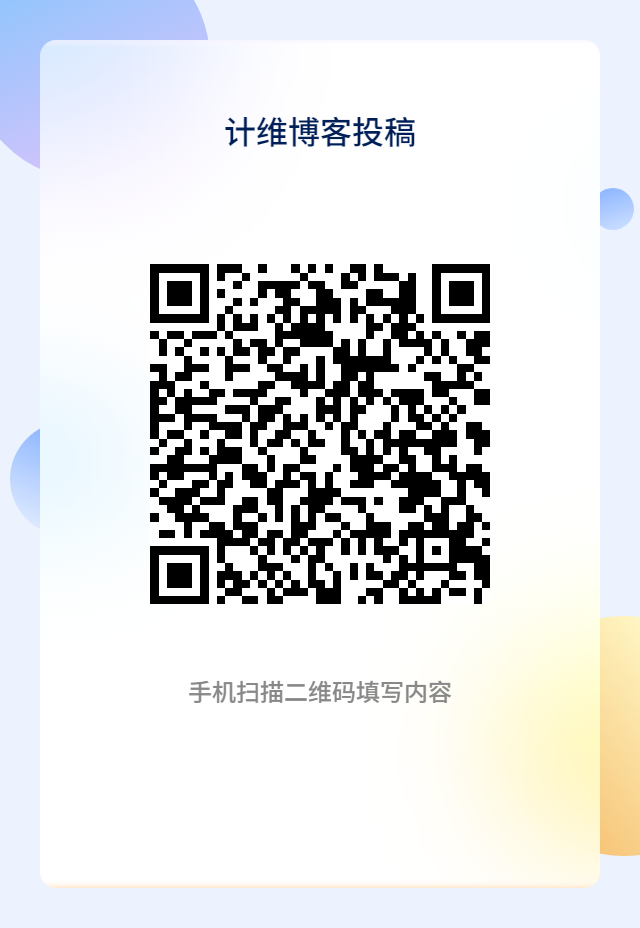
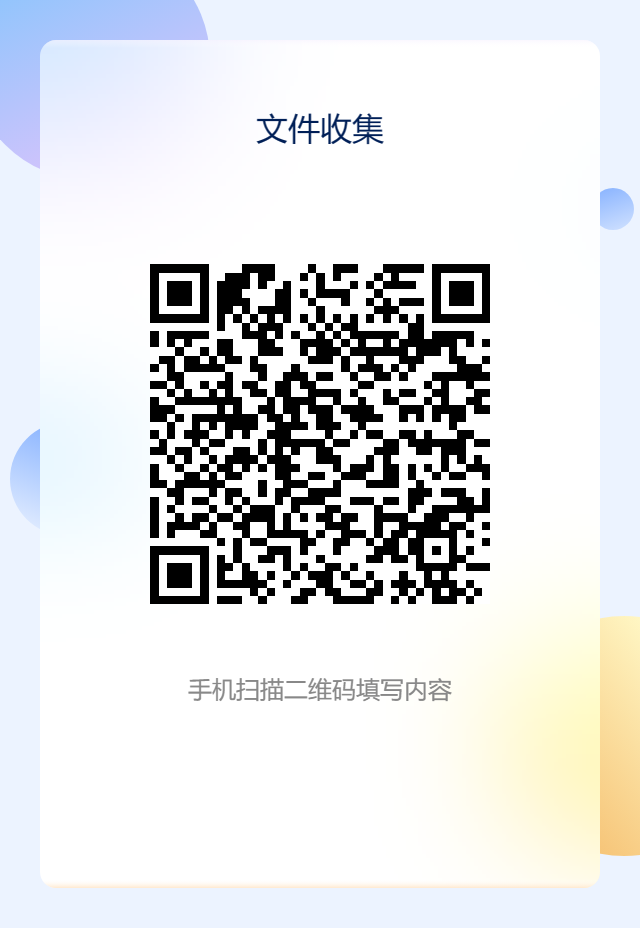
11

Changed region(s): [[0.2188, 0.2812, 0.7812, 0.6562], [0.2812, 0.7188, 0.7188, 0.7812], [0.3438, 0.125, 0.6562, 0.1562]]

diff --git a/content/page/about/index.md b/content/page/about/index.md
@@ -18,21 +18,14 @@ menu:
 
 ### 说明
 
-本博客属于于华南农业大学计算机维护队(下称计维), 由第十八届委员团建立, 目前由`计维DRink`,`计维嘉慧`进行维护.
+本博客属于于华南农业大学计算机维护队(下称计维), 由第十七届委员团建立,第十八届委员团继承， 目前由`计维DRink`,`计维佳慧`进行维护.
 
 本博客仅限内部成员访问，仅用作计维内部技术分享.
 
 ### 架构说明
 
-本博客采用基于Go语言的[Hugo](https://github.com/gohugoio/hugo)搭建, 使用了[Hugo-Stack](https://github.com/CaiJimmy/hugo-theme-stack)主题包, 并基于该主题包进行了一定程度的自定义修改. 本博客部署于Github Pages以及Gitee Pages.
+本博客采用基于Go语言的[Hugo](https://github.com/gohugoio/hugo)搭建, 使用了[Hugo-Stack](https://github.com/CaiJimmy/hugo-theme-stack)主题包, 并基于该主题包进行了一定程度的自定义修改. 本博客托管于Github，部署于Netlify。
 
-[//]: # (### 访问本博客:)
-
-[//]: # ()
-[//]: # (* [地址1&#40;Github.io&#41;]&#40;&#41; &#40;暂时停止更新&#41;)
-
-[//]: # ()
-[//]: # (* [地址2&#40;Gitee.io&#41;]&#40;https://scau-jiwei.gitee.io&#41; &#40;由于Gitee代码审核, 此地址更新有滞后&#41;)
 
 ### 投稿要求
 
@@ -44,8 +37,8 @@ menu:
 
 ### 计维队员投稿通道
 
-* [文档投稿地址](https://workspace.jianguoyun.com/inbox/collect/5ac874186b6340bf92c5aa7895134ee6/submitv2).
-* 将稿子私发委员.
+* [文档投稿地址](https://workspace.jianguoyun.com/inbox/collect/3ec1c7be2f0a49bdb9b6f05d93a45e99/submitv2).
+* 将稿件私发委员.
 * 扫码提交.
 
 ![稿件提交二维码](提交二维码.png)
